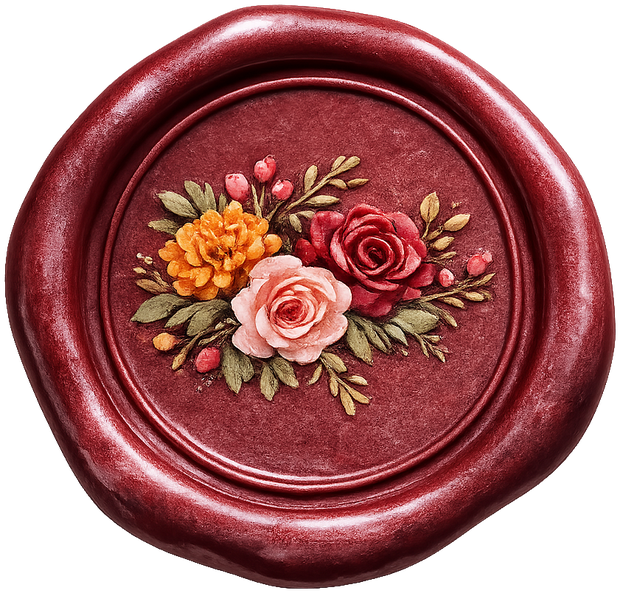
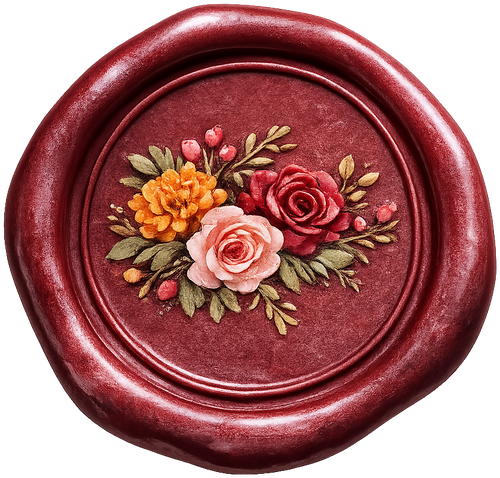
Speed up seal load: smaller webp (101KB->63KB) + png (749KB->480KB) + high-priority preload

Changed region(s): [[0.45, 0.5272, 0.48, 0.5565]]

diff --git a/index.html b/index.html
@@ -3,6 +3,8 @@
 <head>
 <meta charset="utf-8">
 <meta name="viewport" content="width=device-width, initial-scale=1">
+<!-- fetch the envelope seal early (it's the first thing shown) -->
+<link rel="preload" as="image" href="assets/seal.webp" type="image/webp" fetchpriority="high">
 <!-- ===== EDIT THESE ===== -->
 <title>Save the Date — Ridhiman & Vijit</title>
 <meta property="og:title" content="Save the Date — Ridhiman & Vijit">
